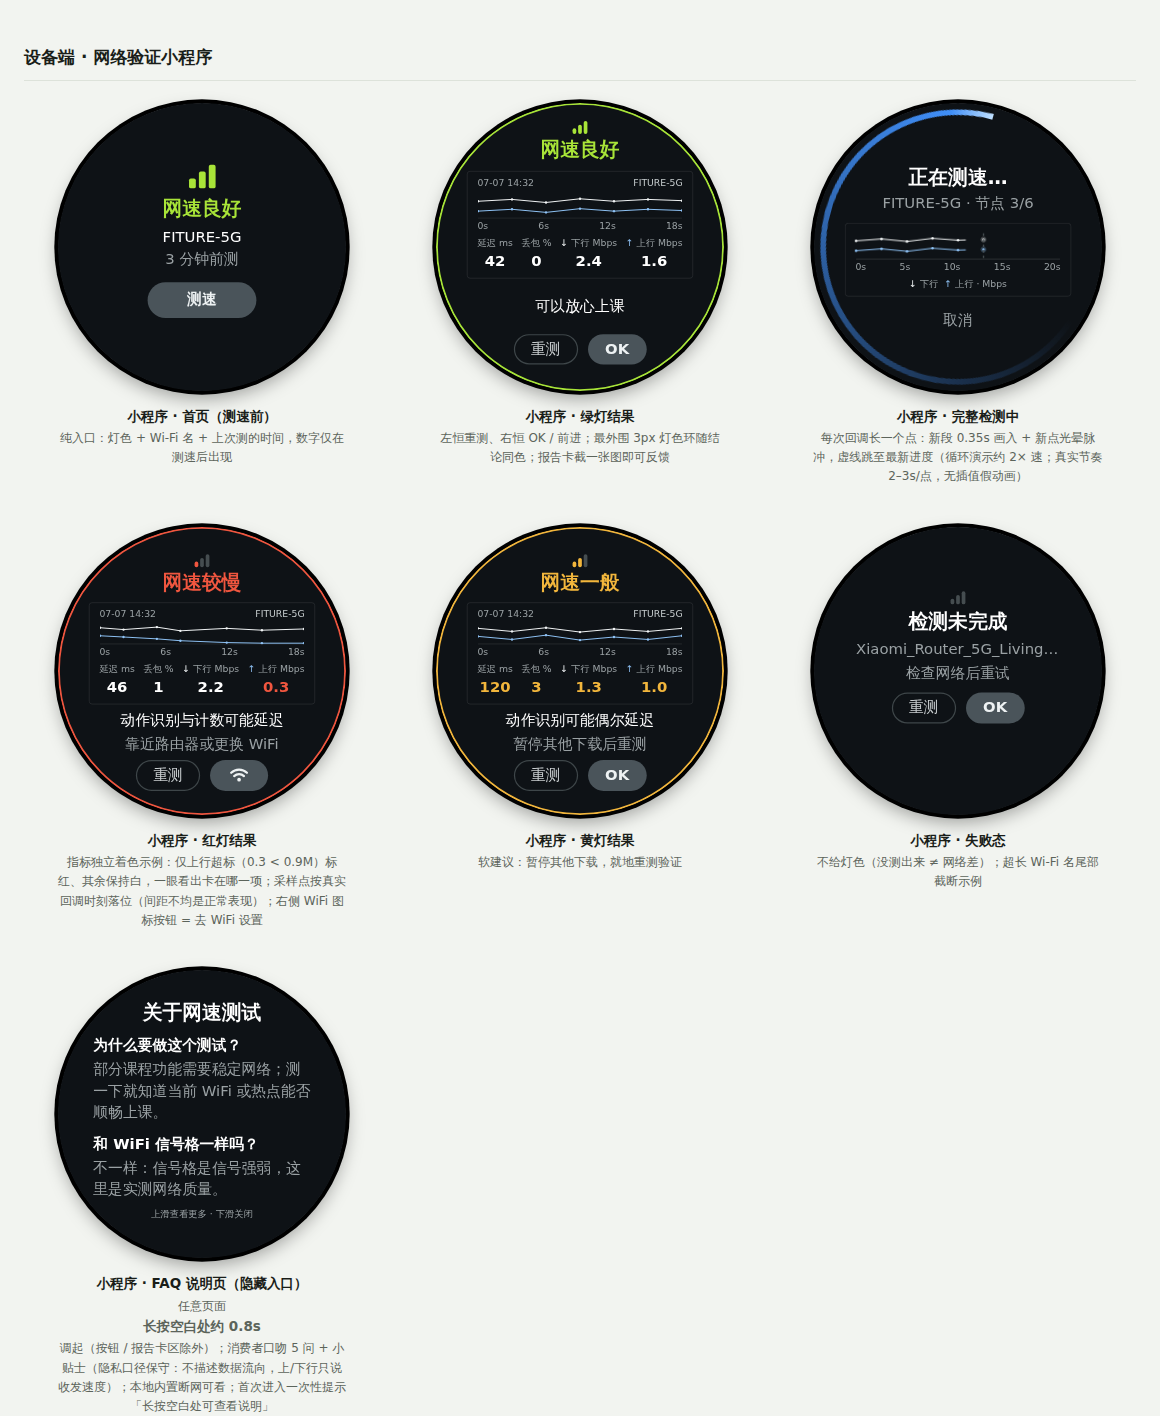
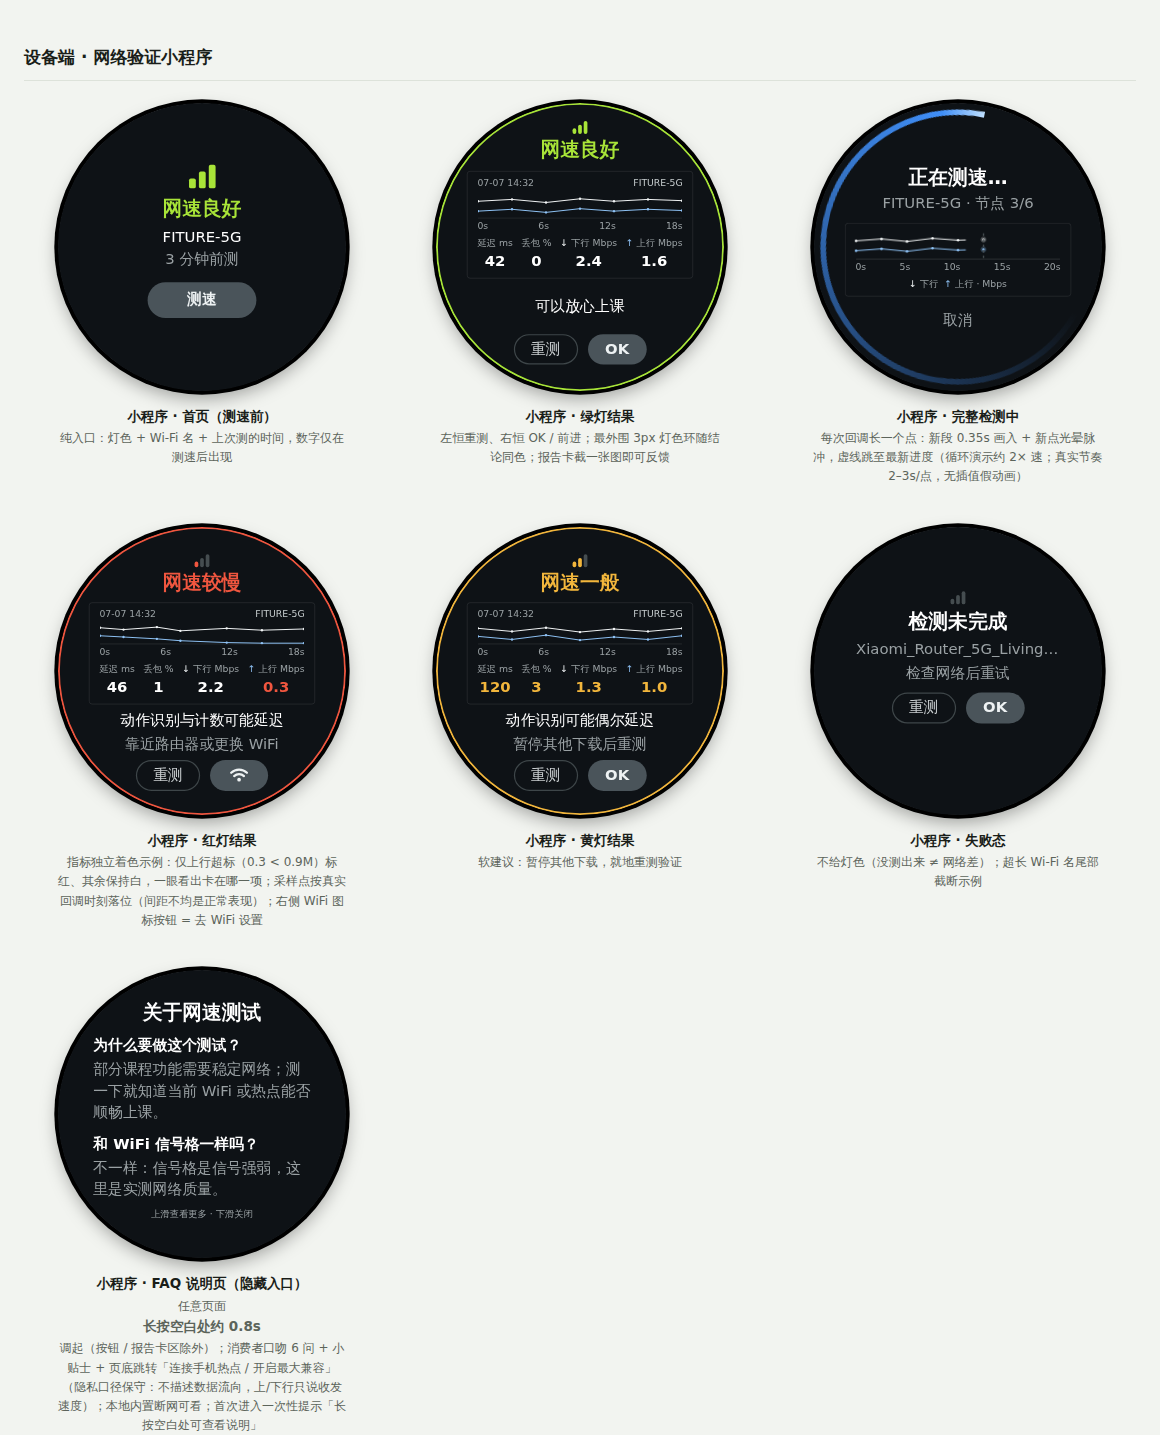
FAQ: add fluctuation reassurance (Q6) and 5G hotspot guide with help-page links
- New Q6 in both language versions: occasional dips are normal, ATOM
  auto-reconnects during class, overall recommendation is to use ATOM
  where the network is reasonably good, and a phone 5G hotspot is
  usually the better choice in weak-signal environments
- New appendix "Connecting to a 5G hotspot" (3 steps) with a Tips line
  pointing to two jump links at the bottom of the FAQ page: "How to
  connect a phone hotspot" and "How to enable Maximize Compatibility"
  (iPhone hotspot compatibility switch); PRD-2 A4.9 specs the two
  fixed jump entries routing to system help pages
- Condensed on-screen tables and demo figure caption updated

Claude-Session: https://claude.ai/code/session_01GK61VJL6HvXSFdCeuPzjiU

diff --git a/Demo-界面交互UI设计.html b/Demo-界面交互UI设计.html
@@ -476,7 +476,7 @@
         <div style="font-size:15px; color:var(--dev-sub); margin-top:12px" data-en="Swipe for more">上滑查看更多 · 下滑关闭</div>
         <div style="flex:1"></div>
       </div></div>
-      <figcaption><b>小程序 · FAQ 说明页（隐藏入口）</b><span>任意页面<b>长按空白处约 0.8s</b> 调起（按钮 / 报告卡区除外）；消费者口吻 5 问 + 小贴士（隐私口径保守：不描述数据流向，上/下行只说收发速度）；本地内置断网可看；首次进入一次性提示「长按空白处可查看说明」</span></figcaption>
+      <figcaption><b>小程序 · FAQ 说明页（隐藏入口）</b><span>任意页面<b>长按空白处约 0.8s</b> 调起（按钮 / 报告卡区除外）；消费者口吻 6 问 + 小贴士 + 页底跳转「连接手机热点 / 开启最大兼容」（隐私口径保守：不描述数据流向，上/下行只说收发速度）；本地内置断网可看；首次进入一次性提示「长按空白处可查看说明」</span></figcaption>
     </figure>
   </div>
 

diff --git a/FAQ-SpeedTest-EN.md b/FAQ-SpeedTest-EN.md
@@ -8,7 +8,7 @@
 
 ---
 
-## Full version (5 questions + 1 tip)
+## Full version (6 questions + 1 tip)
 
 ### 1. Why does ATOM need its own network test?
 
@@ -30,7 +30,11 @@ Phone speed tests measure "**how fast your connection can go at its peak**"; ATO
 
 It uses a small amount of data, only while you run a test, and stops as soon as the test ends. Testing is unavailable during class, so it never affects a class in progress.
 
-> **Tip**: even after a "Good speed" result, occasional lag can happen — networks fluctuate (for example when several devices are busy at once). During class, ATOM keeps watching the connection and adapts automatically; you don't need to do anything. If something goes wrong, **screenshot the result page and send it to support** — one image is all they need.
+### 6. Should I worry about occasional weak signal?
+
+Not really — networks fluctuate, and **an occasional dip is normal**. If a class hiccups now and then, ATOM **automatically tries to reconnect**; you usually don't need to do anything. That said, we recommend using ATOM **somewhere with reasonably good network speed** — and in a weak-signal environment, **connecting to your phone's 5G hotspot is usually the better choice** (see the guide at the end).
+
+> **Tip**: if a problem won't go away, **screenshot the result page and send it to support** — one image is all they need.
 
 ---
 
@@ -45,7 +49,21 @@ It uses a small amount of data, only while you run a test, and stops as soon as 
 | 3 | Vs. phone speed tests? | Those test top speed; this tests "enough for class". |
 | 4 | What are Up / Down? | Up = sending speed; Down = receiving speed. Class needs both. |
 | 5 | Does it cost data? | A little, only when you tap Test; never during class. |
-| Tip | Lag in class? | We auto-adapt; screenshot the result for support. |
+| 6 | Occasional weak signal? | Networks fluctuate — we auto-reconnect in class. Best used where the network is good. |
+| Hotspot | Weak-signal environment? | Try your phone's 5G hotspot — see "Connect a hotspot / Maximize Compatibility" links. |
+| Tip | Still stuck? | Screenshot the result page for support. |
+
+---
+
+## Appendix · Connecting to a 5G hotspot
+
+When local WiFi is weak, a phone 5G hotspot usually gives a steadier class experience:
+
+1. Turn on your phone's **Personal Hotspot**;
+2. In ATOM's WiFi list, select your phone's hotspot and connect;
+3. Come back to this app and run one test — a "Good speed" result means you're set.
+
+> **Tips**: step-by-step guides are linked at the bottom of the FAQ page → **"How to connect a phone hotspot"** · **"How to enable Maximize Compatibility"** ("Maximize Compatibility" is the iPhone Personal Hotspot switch; some devices can only find the hotspot when it's on. Both links route to system help pages, configured by the client).
 
 ---
 
@@ -54,4 +72,5 @@ It uses a small amount of data, only while you run a test, and stops as soon as 
 - **Trigger**: on any page of the app, long-press a blank area (outside buttons / the report card) for **~0.8s** with light haptic feedback → fullscreen FAQ;
 - **Discovery**: a one-time hint on first launch — "Long-press anywhere to learn more";
 - **Form**: title "About this test" (32px) + scrollable Q&A (24px bold questions / 24px gray answers); swipe down or tap blank space to close, returning to the previous page with state preserved (a running test is not interrupted); content is bundled locally and **readable offline**;
+- **Two jump links at the bottom of the FAQ page**: "How to connect a phone hotspot" and "How to enable Maximize Compatibility" → system help pages;
 - Single source of truth for copy = this file (EN) and the CN file; on-screen text follows the condensed table.

diff --git a/PRD-2-网速测试小程序.md b/PRD-2-网速测试小程序.md
@@ -79,7 +79,8 @@
 - **A4.9 隐藏说明入口（长按背景 → FAQ）**：小程序内**任意页面长按非按钮 / 非报告卡交互区的背景约 0.8s**（+ 轻震动反馈）弹出全屏 FAQ 页「关于网速测试」，回答「为什么产品要自带网络测试」「和自己用测速软件有什么区别」等困惑（文案单一来源：中文 [`FAQ-网速测试常见问题.md`](./FAQ-网速测试常见问题.md) / 英文 [`FAQ-SpeedTest-EN.md`](./FAQ-SpeedTest-EN.md)，含屏上精简版字数预算；**隐私口径保守**——不描述数据流向与内容，上/下行仅解释为发送 / 接收速度）。交互规则：
   - **形态**：全屏页（用户主动调起，不算打扰）——标题「关于网速测试」32px + 可滚动 Q&A 列表（问题 24 白加粗 / 答案 24 灰，答案 ≤3 行）；下滑或点空白关闭，**返回原页面且状态保留**（测速中长按不中断任务，FAQ 关闭后回到进行中的测速页）；
   - **为什么用隐藏入口**：说明属低频需求，不占常驻 UI（六态页面寸土寸金）；**首次进入小程序在底部一次性提示「长按空白处可查看说明」**（仅提示一次，本地记录）；失败态与客服话术中也可引导长按；
-  - **边界**：长按判定与滚动 / 点按手势互斥（位移超阈值即取消）；按钮、波形卡、历史列表等可交互区域内长按不触发（避免误出）；FAQ 页内容静态本地内置，无网络依赖（断网也能看——断网场景恰恰是最需要它的时刻）。
+  - **页底跳转项**：FAQ 列表末尾固定两个跳转入口——「怎么连接手机热点」「怎么开启最大兼容」→ 系统帮助页（路由由客户端配置；配合 Q6「信号差建议连手机 5G 热点」的引导闭环）；
+  - **边界**：长按判定与滚动 / 点按手势互斥（位移超阈值即取消）；按钮、波形卡、历史列表等可交互区域内长按不触发（避免误出）；FAQ 页内容静态本地内置，无网络依赖（断网也能看——断网场景恰恰是最需要它的时刻；两个跳转项目标为系统页，同样离线可达）。
 
 **结果页设计规范标注**（七个分区的字号 / 颜色 / 规则速查；下半部分为课中穿透式抽屉规范，属 PRD-3 范围，同图收录；完整交互见 Demo 附录）：
 
